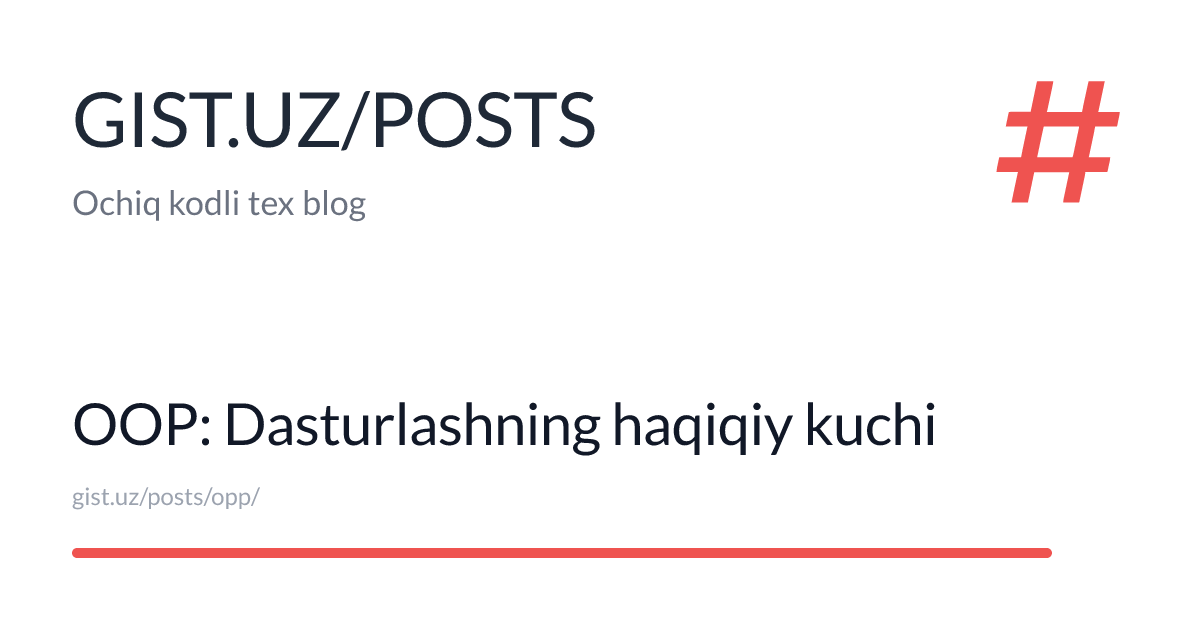
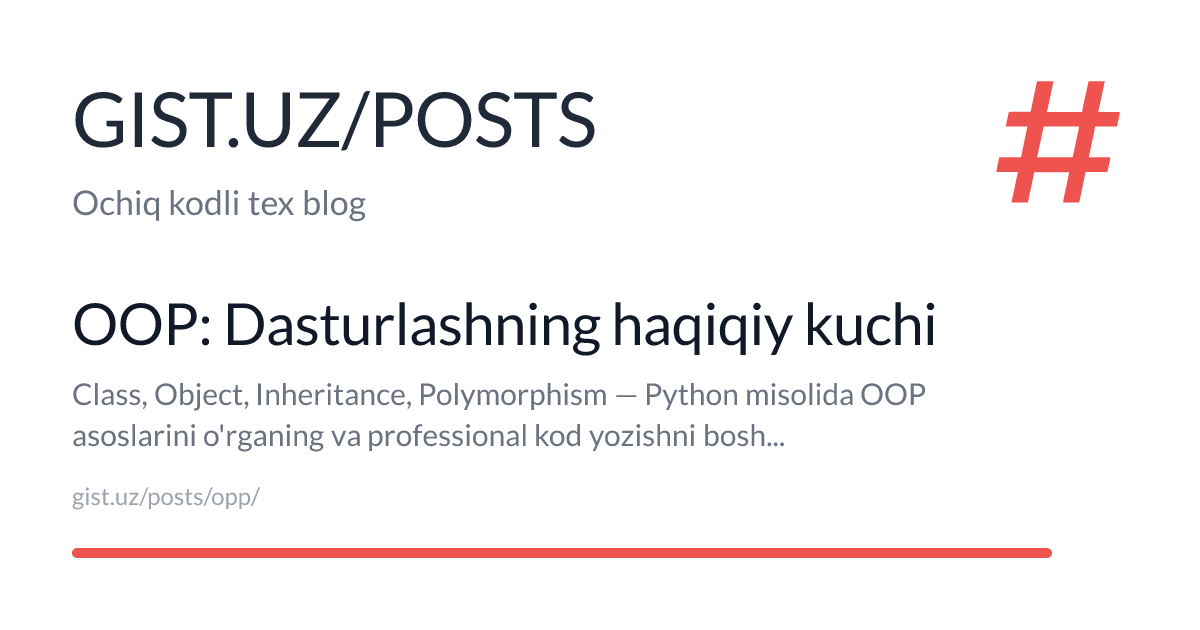
feat: description qo'shildi opp.md va solid.md postlariga

Changed region(s): [[0.0617, 0.6032, 0.8017, 0.7238], [0.0617, 0.4825, 0.8017, 0.573]]

diff --git a/content/posts/solid.md b/content/posts/solid.md
@@ -1,8 +1,7 @@
 +++
 title = "SOLID: Kodingizni \"Musor\"dan \"San’at asari\"ga aylantirish sirlari"
 date = 2026-01-08
-draft = false
-tags = ["python", "solid", "clean-code", "architecture", "senior-level"]
+draft = falsedescription = "5 ta oltin qoida: Single Responsibility, Open-Closed, Liskov, Interface Segregation, Dependency Inversion — Python misollarida."tags = ["python", "solid", "clean-code", "architecture", "senior-level"]
 +++
 
 ### Kirish: OOP ni bilish yetarli emasmi? 🏗

diff --git a/content/posts/opp.md b/content/posts/opp.md
@@ -2,6 +2,7 @@
 title = "OOP: Dasturlashning haqiqiy kuchi"
 date = 2026-01-26
 draft = false
+description = "Class, Object, Inheritance, Polymorphism — Python misolida OOP asoslarini o'rganing va professional kod yozishni boshlang."
 tags = ["python", "oop", "advanced", "professional", "best-practices"]
 +++
 
